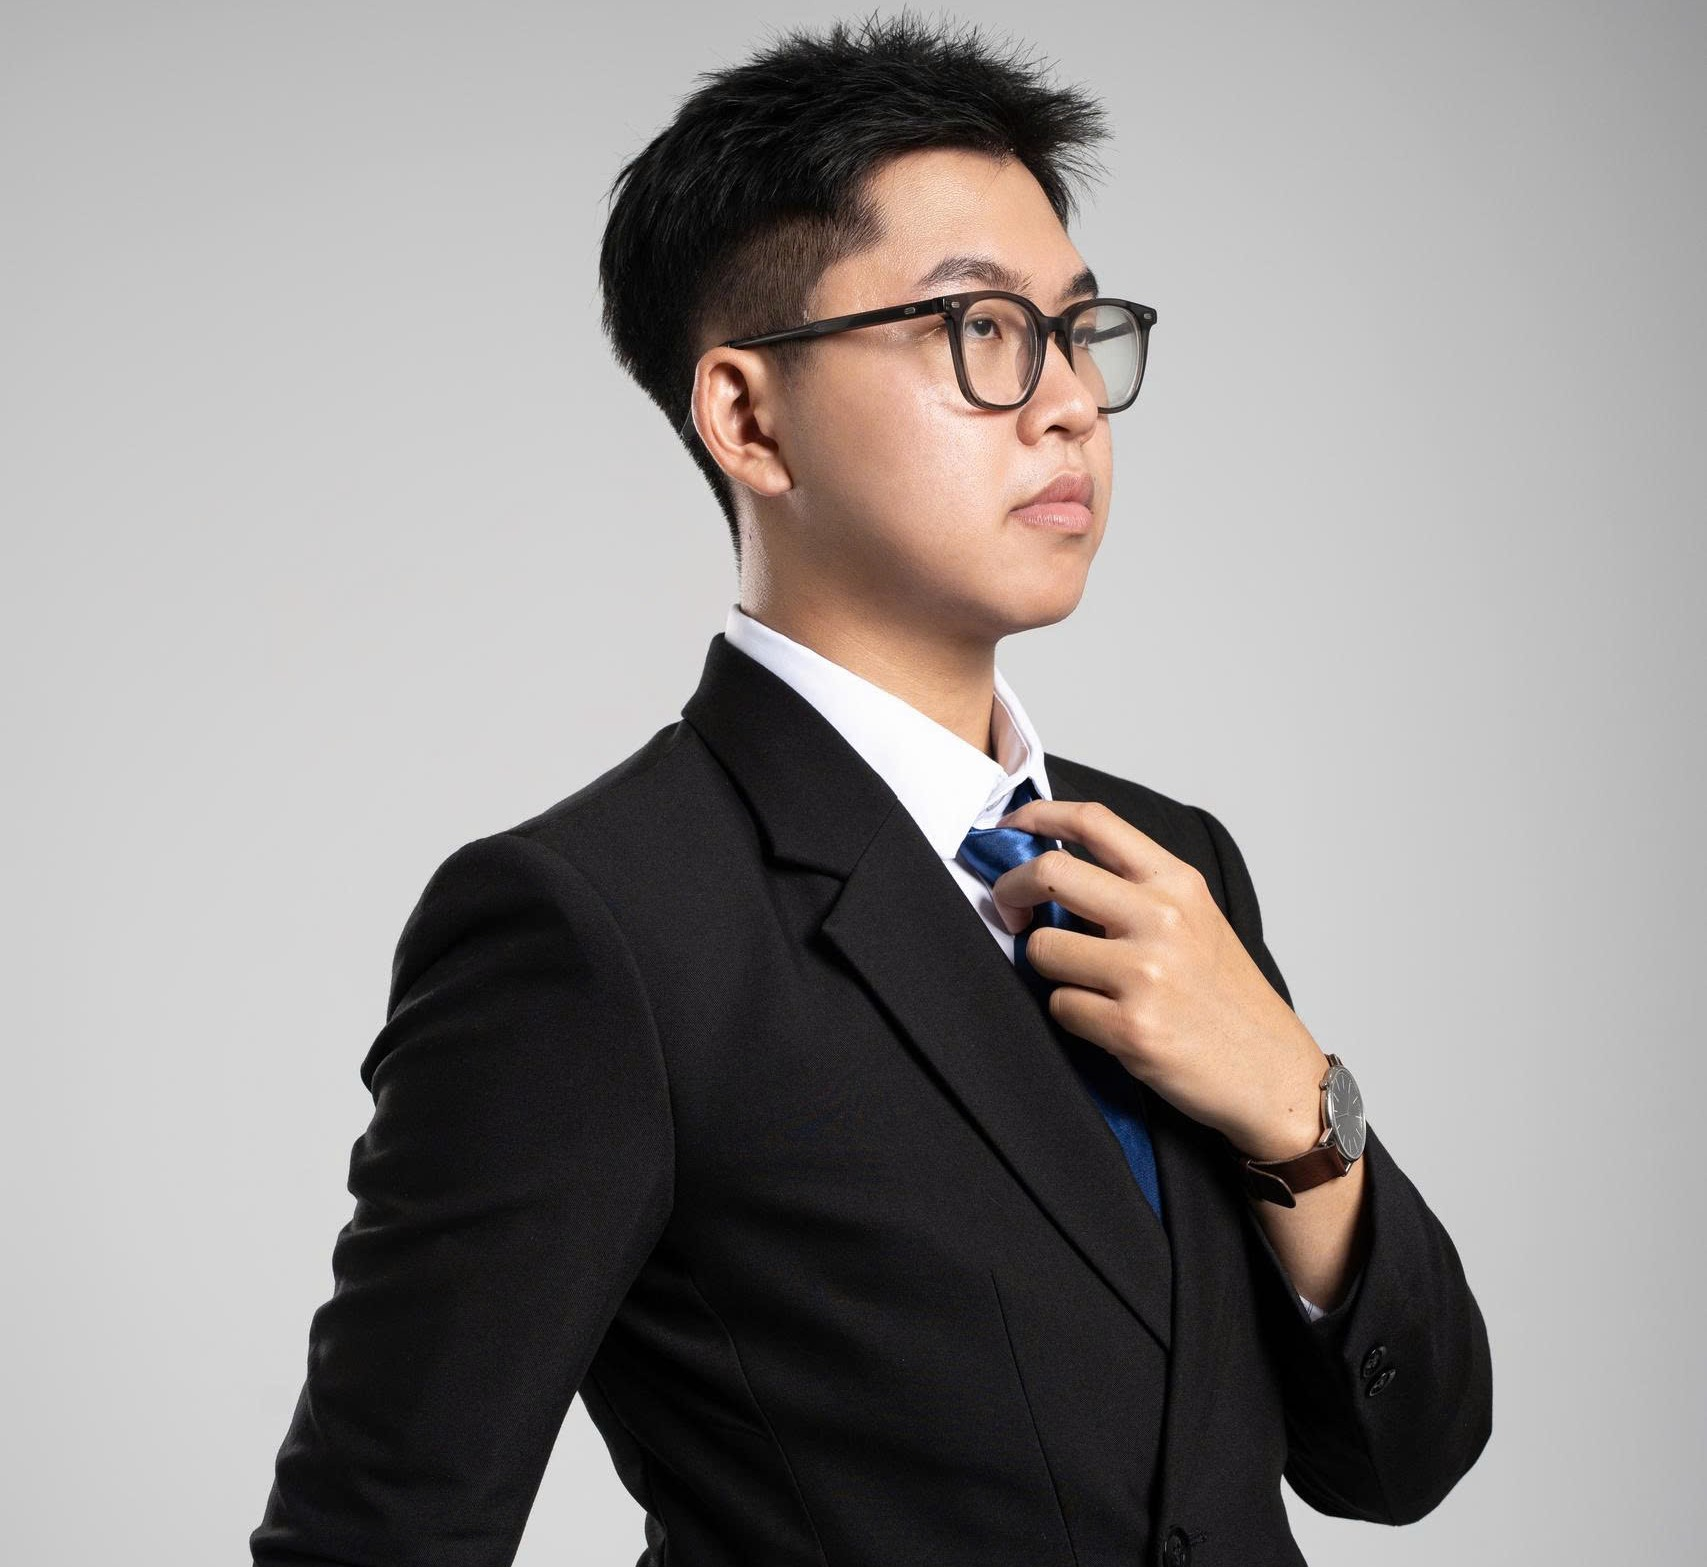
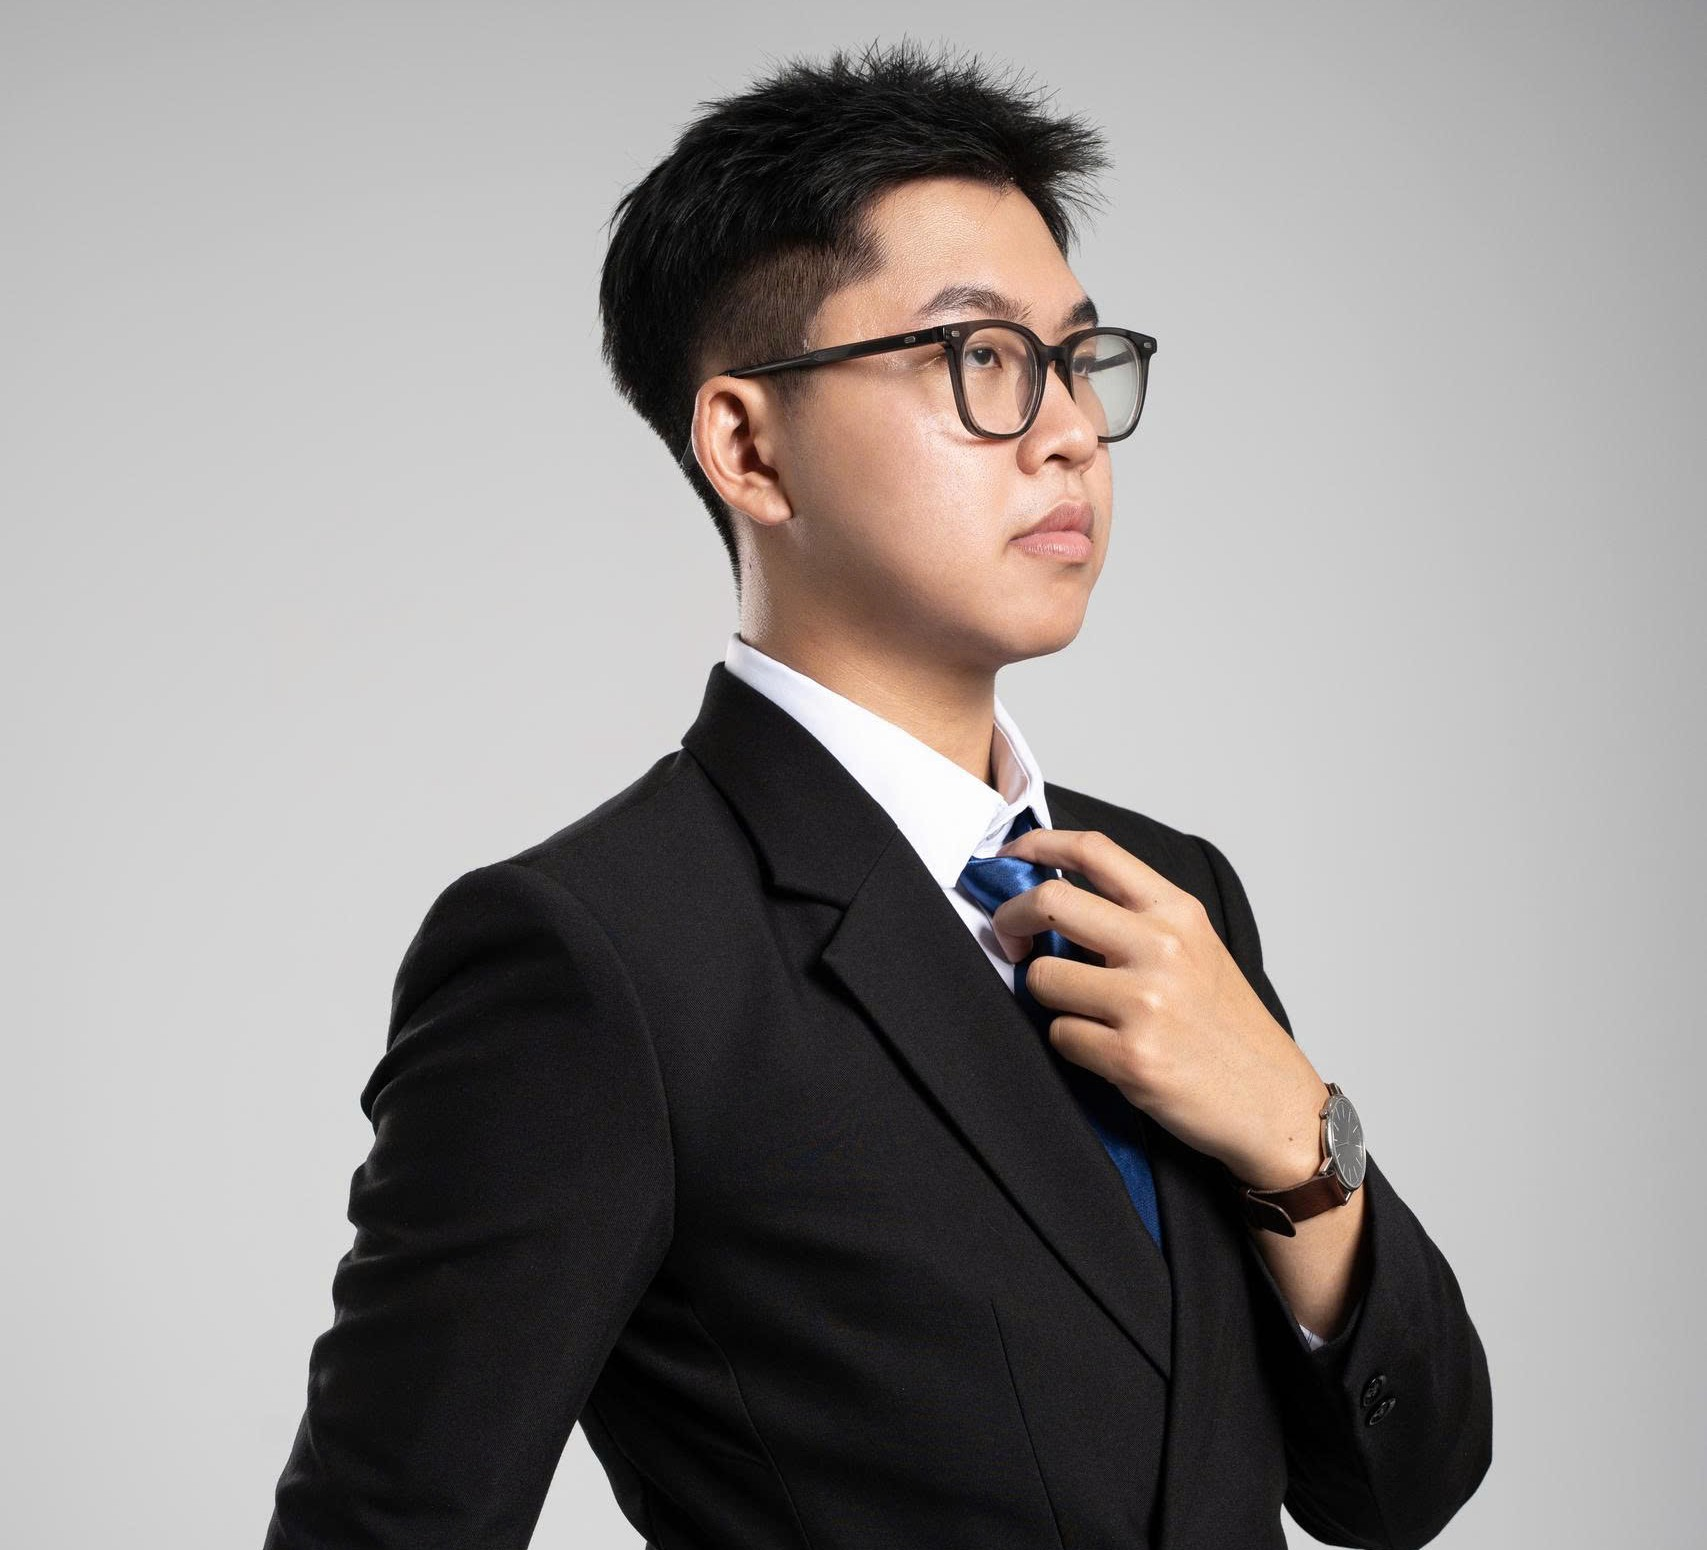
fix name mem

diff --git a/about.html b/about.html
@@ -158,10 +158,10 @@
                 <h1 class="mb-5">Ban Lãnh Đạo</h1>
             </div>
             <div class="row g-4">
-                <div class="col-lg-3 col-md-6 wow fadeInUp" data-wow-delay="0.1s">
+                <div class="col-lg-4 col-md-6 wow fadeInUp" data-wow-delay="0.1s">
                     <div class="team-item">
                         <div class="overflow-hidden">
-                            <img class="img-fluid" src="img/team-mem/giam-doc.jpg" alt="" style="height: 350px;">
+                            <img class="img-fluid" src="img/team-mem/giam-doc.jpg" alt="" style="height: 350px;object-fit: fill;">
                         </div>
                         <div class="position-relative d-flex justify-content-center" style="margin-top: -19px;">
                             <a class="btn btn-square mx-1" href="#"><i class="fa fa-facebook-f"></i></a>
@@ -169,15 +169,15 @@
                             <a class="btn btn-square mx-1" href="#"><i class="fa fa-instagram"></i></a>
                         </div>
                         <div class="text-center p-4">
-                            <h5 class="mb-0">Full Name</h5>
-                            <small>Giám đốc</small>
+                            <h5 class="mb-0">Nguyễn Đặng Phương Vinh</h5>
+                            <small><strong>Giám đốc</strong></small>
                         </div>
                     </div>
                 </div>
-                <div class="col-lg-3 col-md-6 wow fadeInUp" data-wow-delay="0.3s">
+                <div class="col-lg-4 col-md-6 wow fadeInUp" data-wow-delay="0.3s">
                     <div class="team-item">
                         <div class="overflow-hidden">
-                            <img class="img-fluid" src="img/team-mem/truong-phong-kinh-doanh.jpg" alt="" style="height: 350px;">
+                            <img class="img-fluid" src="img/team-mem/truong-phong-kinh-doanh.jpg" alt="" style="height: 350px;object-fit: fill;">
                         </div>
                         <div class="position-relative d-flex justify-content-center" style="margin-top: -19px;">
                             <a class="btn btn-square mx-1" href=""><i class="fa fa-facebook-f"></i></a>
@@ -185,15 +185,15 @@
                             <a class="btn btn-square mx-1" href=""><i class="fa fa-instagram"></i></a>
                         </div>
                         <div class="text-center p-4">
-                            <h5 class="mb-0">Full Name</h5>
-                            <small>Trưởng phòng kinh doanh</small>
+                            <h5 class="mb-0">Nguyễn Hồng Hân</h5>
+                            <small>Trưởng phòng <strong>Kinh Doanh</strong></small>
                         </div>
                     </div>
                 </div>
-                <div class="col-lg-3 col-md-6 wow fadeInUp" data-wow-delay="0.5s">
+                <div class="col-lg-4 col-md-6 wow fadeInUp" data-wow-delay="0.5s">
                     <div class="team-item">
                         <div class="overflow-hidden">
-                            <img class="img-fluid" src="img/team-mem/truong-phong-dieu-hanh.jpg" alt="" style="height: 350px;">
+                            <img class="img-fluid" src="img/team-mem/truong-phong-dieu-hanh.jpg" alt="" style="height: 350px;object-fit: fill;">
                         </div>
                         <div class="position-relative d-flex justify-content-center" style="margin-top: -19px;">
                             <a class="btn btn-square mx-1" href=""><i class="fa fa-facebook-f"></i></a>
@@ -201,15 +201,15 @@
                             <a class="btn btn-square mx-1" href=""><i class="fa fa-instagram"></i></a>
                         </div>
                         <div class="text-center p-4">
-                            <h5 class="mb-0">Full Name</h5>
-                            <small>Trưởng phòng điều hành</small>
+                            <h5 class="mb-0">Mai thị ánh tuyết</h5>
+                            <small>Trưởng phòng <strong>Điều Hành</strong></small>
                         </div>
                     </div>
                 </div>
-                <div class="col-lg-3 col-md-6 wow fadeInUp" data-wow-delay="0.7s">
+                <div class="col-lg-4 col-md-6 wow fadeInUp" data-wow-delay="0.7s">
                     <div class="team-item">
                         <div class="overflow-hidden">
-                            <img class="img-fluid" src="img/team-mem/truong-phong-marketing.jpg" alt="" style="height: 350px;">
+                            <img class="img-fluid" src="img/team-mem/truong-phong-marketing.jpg" alt="" style="height: 350px;object-fit: fill;">
                         </div>
                         <div class="position-relative d-flex justify-content-center" style="margin-top: -19px;">
                             <a class="btn btn-square mx-1" href=""><i class="fa fa-facebook-f"></i></a>
@@ -217,15 +217,15 @@
                             <a class="btn btn-square mx-1" href=""><i class="fa fa-instagram"></i></a>
                         </div>
                         <div class="text-center p-4">
-                            <h5 class="mb-0">Full Name</h5>
-                            <small>Trưởng phòng marketing</small>
+                            <h5 class="mb-0">Huỳnh Tuấn Kiệt</h5>
+                            <small>Trưởng phòng <strong>Marketing</strong></small>
                         </div>
                     </div>
                 </div>
-                <div class="col-lg-3 col-md-6 wow fadeInUp" data-wow-delay="0.7s">
+                <div class="col-lg-4 col-md-6 wow fadeInUp" data-wow-delay="0.7s">
                     <div class="team-item">
                         <div class="overflow-hidden">
-                            <img class="img-fluid" src="img/team-mem/truong-phong-huong-dan-vien.jpg" alt="" style="height: 350px;">
+                            <img class="img-fluid" src="img/team-mem/truong-phong-huong-dan-vien.jpg" alt="" style="height: 350px;object-fit: fill;">
                         </div>
                         <div class="position-relative d-flex justify-content-center" style="margin-top: -19px;">
                             <a class="btn btn-square mx-1" href=""><i class="fa fa-facebook-f"></i></a>
@@ -233,8 +233,8 @@
                             <a class="btn btn-square mx-1" href=""><i class="fa fa-instagram"></i></a>
                         </div>
                         <div class="text-center p-4">
-                            <h5 class="mb-0">Full Name</h5>
-                            <small>Trưởng phòng hướng dẫn viên</small>
+                            <h5 class="mb-0">Mai Quốc Huy</h5>
+                            <small>Trưởng phòng <strong>Hướng Dẫn Viên</strong></small>
                         </div>
                     </div>
                 </div>
